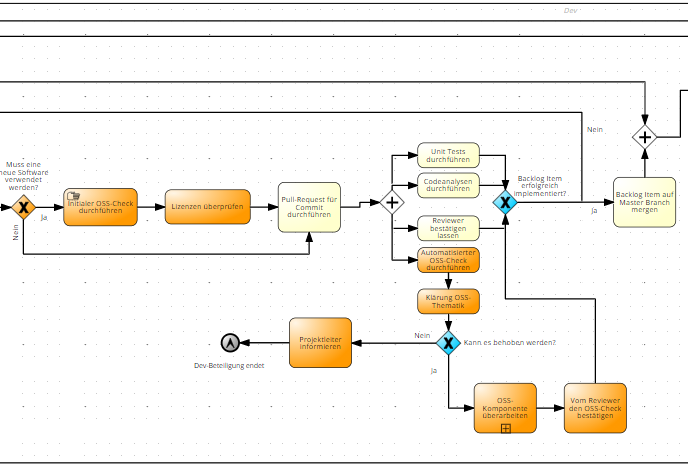
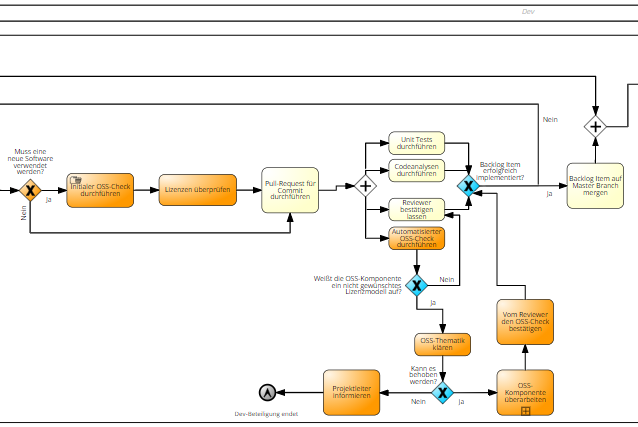
tbd

Changed region(s): [[0.0, 0.1522, 1.0, 1.0], [0.0, 0.0, 1.0, 0.0913]]

diff --git a/SOLL_IntegrationOSSDevOpsProdukt.tex b/SOLL_IntegrationOSSDevOpsProdukt.tex
@@ -1,9 +1,116 @@
-Obwohl die Nutzung von OSS Folgen für das gesamte DevOps-Team hat, wird die Entscheidung über die Nutzung von der Rolle des Entwicklers getroffen, wodurch die Prozessanpassungen  vorrangig im Bereich der Entwicklung vorgenommen werden müssen. 
+Obwohl die Nutzung von OSS Folgen für das gesamte DevOps-Team hat, wird die Entscheidung über die Nutzung von der Rolle des Entwicklers getroffen, wodurch die Prozessanpassungen vorrangig im Bereich der Entwicklung vorgenommen werden müssen. 
 
-Daher wurde für ein besseres Verständnis, ausschließlich die Rolle des Entwicklerteams, mit einem entsprechenden Start und Endpunkt modelliert. 
+Daher wurde für ein besseres Verständnis, ausschließlich die Rolle des Entwicklerteams, mit einem entsprechenden Start und Endpunkt modelliert und die restlichen Rollen nicht weiter behandelt.
 
 \begin{figure}[p]
     \centering
-    \includegraphics[angle=90, scale=0.7]{Bilder/SOLL-Prozess.png}
-    \caption{Einbindung von OSS in den Softwareentwicklungsprozess basierend auf dem HAF-Projekt}
+    \includegraphics[angle=90, scale=0.5]{Bilder/SOLL-Prozess.png}
+    \caption{Einbindung von OSS in den Softwareentwicklungsprozess basierend auf dem HAF-Projekt}s
 \end{figure}
+
+Da zu dem Zeitpunkt der Nutzung von OSS die Projektstruktur bereits besteht und das Product Backlog ebenfalls erstellt wurde, bildet den Anfang des DevOps-Prozesses nun die Anpassung des priorisierten Product Backlogs.
+
+Nachdem das Sprint Planning Meeting durchgeführt worden ist, kann die Iteration gestartet werden. 
+
+\begin{figure}[h]
+    \centering
+    \includegraphics[scale=0.8]{Bilder/SOLL-Prozess_first Part.png}
+    \caption{Erster Teil des Softwareentwicklungsprozess im SOLL-Zustand basierend auf dem HAF-Projekt}
+\end{figure}
+
+Wie auch bei dem IST-Zustand muss sich zunächst die Frage gestellt werden, ob Codeänderungen durchgeführt werden müssen, unabhängig ob es auf Änderungen eines vorhandenen Codes oder auf eine Neuimplentierung bezieht. 
+
+Sollten Codeänderungen vorgenommen werden, wird der Implementierungsvorgang für das Backlog Item gestartet. 
+
+Ab diesem Zeitpunkt setzt die Nutzung von OSS die Prozessänderungen in Gang.
+
+\begin{figure}[h]
+    \centering
+    \includegraphics[scale=0.8]{Bilder/SOLL-Prozess_second Part.png}
+    \caption{Zweiter Teil des Softwareentwicklungsprozess im SOLL-Zustand basierend auf dem HAF-Projekt}
+\end{figure}
+
+Um präventiv maßgebliche Konsequenzen durch die Nutzung von OSS zu vermeiden, sollten sich die betreffenden Entwickler die Frage stellen, ob tatsächliche eine neue Software oder Softwarekomponete in das Projekt eingebunden werden muss. 
+
+Falls dies der Fall ist, muss zunächst ein initaler OSS-Check durchgeführt werden. 
+
+Dieser dient dazu, das Lizenzmodell der verwendeten OSS-Komponete zu überprüfen und diese mit den 'ungefährlichen' Lizenzmodellen zu vergleichen. 
+
+Dies hat zum Vorteil, dass der Entwickler bereits vor einer langen Implementierung eine Aussage darüber treffen kann, ob sich aus Sicht der Lizenzmodelle eine Verwendung eignet oder ob ein Lizenzmodell vorliegt, welches zumindest ein beschränktes Copyleft aufweist. 
+
+Sollte die verwendete OSS-Komponete ein derartiges Lizenzmodell aufweisen, hat der Entwickler ausreichend Zeit, nach eine 'ungefährlichen' Alternative zu suchen.  
+
+Wird die OSS-Kompoente letztlich verwendet, wird ein Pull-Request für ein Commit durchgeführt. 
+
+An diesem Punkt befindet sich der Entwickler ebenfalls, wenn keine neue OSS genutzt wird. 
+
+Anschließend hierzu werden wie im gängigen Prozess, Unit-Tests und Codeanalysen durchgeführt und diese  vom Reviewer bestätigen lassen.
+
+Gleichzeitig zu diesen Schritten muss eine neue Anpassung des Prozesses im Hinblick auf die Verwendung von OSS als ein automatisierten OSS-Check durchgeführt werden.
+
+Während bei einer Verwendung von neuer OSS die Lizenzmodelle zeitnah überprüft werden können, kann es Fälle geben, in denen Versionen einer bereits implementierten OSS-Komponete geändert werden und daraus eine Verschiebung der betreffenden Lizenzmodelle stattfinden kann. 
+
+Dies kann dazu führen, dass OSS-Komponeten ein starkes Copyleft aufweisen, obwohl diese mit einem schwachen oder keinen Copyleft implementiert worden sind. 
+
+Ferner würde bei einer gängigen Entwicklung diese Situation nicht auffallen und bietet daher ein großes Risiko. 
+
+Durch einen automatisierten OSS-Check können die Lizenzmodelle der verwendeten OSS-Komponeten anhand ihrer Versionen dargestellt werden. 
+
+Damit erhalten alle Entwickler einen genauen Überblick über die verwendeten OSS-Komponeten und deren akutellen Lizenzstatus. 
+
+Zu beachten ist dabei, dass der automatisierte OSS-Check nach jedem Commit ausgeführt werden muss, damit die Entwickler genug Zeit haben, nach einer Lösung für eine mögliche Lizenzproblematik zu suchen.
+
+Durch die zeitnahe Übermittlung der notwendigen Informationen wird die Transparenz zwischen den DevOps-Mitgliedern sichergestellt. 
+
+Die Automatisierung des OSS-Checks entspricht sowohl der Kultur als auch den Methoden nach den DevOps-Prinzipien.
+
+Sollte die OSS-Komponete kein schwieriges Copyleft aufweisen, wird dieser Zustand zunächst vom Reviewer bestätigt und kann dann als Backlog Item erfolgreich implementiert und auf das Master Branch gemergt werden. 
+
+Falls dies nicht der Fall ist, muss die OSS-Thematik zunächst geklärt werden.
+
+Sollte die entstandene Problematik nicht behoben werden, so muss der Projektleiter informiert werden und die Dev-Beteiligung endet zunächst an dieser Stelle. 
+
+Kann die OSS-Thematik gelöst werden, muss diese zunächst überarbeitet werden. 
+
+Dies reicht von einem Rückgang auf eine alte Version, wobei an dieser Stelle die gesamte Funktionalität gewährleistet werden muss, bis zur Verwerfung der entsprechenden Kompoente durch den Entwickler. 
+
+Dieser Aufgabenbereich kann mehrere Unteraufgaben aufweisen und die Lösung ist demnach spezifisch auf die Komponete und deren Entwicklung ausgelegt. 
+
+Nach der Überarbeitung erfolgt eine erneute Bestätigung durch einen Reviewer, zum Ziel, die Kompoente erfolgreich auf den Master Branch zu mergen. 
+
+\begin{figure}[h]
+    \centering
+    \includegraphics[scale=0.8]{Bilder/SOLL-Prozess_third Part.png}
+    \caption{Dritter Teil des Softwareentwicklungsprozess im SOLL-Zustand basierend auf dem HAF-Projekt}
+\end{figure}
+
+Sobald das Release auf seine Vollständigkeit und Richtigkeit überprüft worden ist, wird zur erneuten Kontrolle der Lizenzmodelle ein Report erstellt. 
+
+Dieser dient als eine Nachdokumentation, einerseits falls sich unbeabsichtigt Änderungen ergeben haben, die bisher nicht gesehen wurden und andererseits zur Vorlage für den Stakeholder, um den Status der verwendeten OSS-Komponeten transparent zu präsentieren. 
+
+Die Iteration endet mit der Vorstellung der Ergebnisse im Review. 
+
+Basierend auf der Nachdokumentation muss anschließend analysiert werden, ob Auffälligkeiten innerhalb der Lizenzthematik festgestellt wurden.  
+
+Ergeben sich tatsächlich Auffälligkeiten, müssen diese zunächst definiert werden und werden in den Product Backlog übermittelt. 
+
+Müssen keine Veränderungen vorgenommen werden, wird das Release bereitgestellt. 
+
+Genau wie bei dem gängigen Softwareentwicklungsprozess im IST-Zustand, endet dieser Prozess ebenfalls mit einem leeren Product Backlog.  
+
+
+
+
+
+
+
+
+
+
+
+
+
+
+
+
+

diff --git a/UmfangSzenarien.tex b/UmfangSzenarien.tex
@@ -1,0 +1,47 @@
+Um das Themenfeld der Verwendung von OSS in den DevOps-Prozess in einem festen Rahmen erfassen zu können, musste zunächst der Umfang dieser Problemstellung reduziert werden.  
+
+In diesem Rahmen wurde der Umgang mit der Nutzung von OSS, insbesondere im Hinblick auf die Lizenzmodelle auf drei Szenarien beschränkt. 
+
+Diese stellen zunächst drei Ausgangssituationen dar, unter welchen Bedinungen OSS verwendet werden darf und welche Einschränkungen dabei getroffen werden müssen.   
+
+\paragraph{Szenario 1: Verwendung von OSS zur Testzwecken}
+
+Bei dem ersten Szenario beschränkt sich die Nutzung von OSS ausschließlich auf Unterstützung- oder Testzwecke wie bespielsweise Treiber. 
+
+Dementsprechend soll dieses Szenario verdeutlichen, dass die Verwendung von OSS ausschlißlich als Werkzeug fungiert und keine Abhängigkeit zwischen der Funktionalität und der verwendeten OSS-Komponente stattfindet. 
+
+Würde die OSS wegfallen, wäre die Funktionalität des Projekts weiterhin gewährleistet. 
+
+Ferner werden keine Kopien des Original-Quellcodes innerhalb eines Repositorys hochgeladen, sowohl manuell als auch mittels Skript. 
+
+Infolge der ausschließlichen Unterstützungsfunktion erfolgt innerhalb dieses Szenarios keine Auslieferung der Komponete an den Kunden. 
+
+\paragraph{Szenario 2: Verwendung von OSS-Bibliotheken als Referenz}
+
+Im Rahmen des zweiten Szenarios werden OSS-Bibliotheken über API-Aufrufe innerhalb des entwickelnden Quellcodes referenziert und blieben daher unverändert. 
+
+Ferner wird der Quellcode der OSS-Bibliothek während des Builds und Deployments nur vorübergehend heruntergeladen, um die ausführbare Datei zu erstellen. 
+
+Da die Bibliothek ausschließlich als Referenz verwendet wird, werden wie bei Szenario eins keine Kopien des originalen Quellcodes der Bibliothek innerhalb eines Repositorys hochgeladen.
+
+Da viele Systembibliotheken unter ein starkes Lizenzmodell fallen, kann das bestehende Projekt mit der entsprechenden Bibliothek durch die Referenzierung zu einem Programm zusammengeführt werden und fällt unter die Verbindung \textit{statisches Verlinken}. \cite[S. 211]{jorg_it-vertrage_2007}
+
+Es entsteht demnach eine direkte Verbindung zu einer lizensierten OSS. 
+
+Aus diesem Grund sollten innerhalb dieses Szenarios weitgreifend auf OSS-Komponenten mit einem starken Copyleft vermieden werden. 
+
+\paragraph{Szenario 3: Verwendung von OSS als modifizierter Quellcode}
+
+Innerhalb des letzten Szenarios findet eine tatsächliche Integration der OSS innerhalb der Entwicklung des Projekts statt.
+
+In diesem Rahmen wird der Quellcode heruntergeladen, entsprechend den Anforderungen angepasst und letztlich in das Repository hochgeladen. 
+
+Dies kann sowohl auf eine reine Modifikation des Quellcodes oder die Erstellung neuer Dateien basieren.  
+
+Ab diesem Zeitpunkt ist die Berücksichtigung der Lizenzmodelle essentiell, wodurch bestimmte Bedinungen erfüllen werden müssen. 
+
+Um weitgreifende Folgen zu vermeiden, sollten in diesem Szenario auschließlich OSS verwendet werden, die kein Copyleft oder teilweise ein beschränktes Copyleft aufweisen.
+
+Jedes File, welches modifiziert oder neu erstellt wurde, muss zur Kennzeichnung einer Modifikation mit einem Header-Kommentar versehen werden.
+
+%Frage an Daniel: Szenarios grafisch darstellen?????

diff --git a/IST_IntegrationOSSDevOpsProdukt.tex b/IST_IntegrationOSSDevOpsProdukt.tex
@@ -132,11 +132,16 @@ Nachdem das Release auf seine Vollständigkeit und Richitgkeit überprüft worde
 
 Ab diesem Zeitpunkt endet die Iteration. 
 
-Werden weitere Anpassungen benötigt, muss das neue Release bearbeitet und definiert werden, wobei diese in das priorisierte Backlog zurückgehen.
+Werden weitere Anpassungen benötigt, muss das neue Release bearbeitet und definiert werden, wobei diese in das priorisierte Backlog zurückfließen.
 
 Sind keine Änderungen notwendig, wird das Release bereitgestellt. 
 
 Das Projekt endet sobald das product Backlog leer ist.
+
+
+%Frage an Daniel: Soll ich die BPMN-Modellierung kurz erläutern? 
+%Eigentlich finde ich das nicht sinnvoll, weil der Prof. sich top in BPMN auskennt
+%Aber vllt fürs Verständnis???? Wenn nicht im text, dann im Anhang ???
 
 
 

diff --git a/MasterThesis_CA.tex b/MasterThesis_CA.tex
@@ -101,6 +101,7 @@ In diesem Rahmen wurde zunächst der derzeitige IST-Zustand mittels BPMN modelli
 \subsubsection{Betrachtung des IST-Zustandes des Softwareentwicklungsprozesses}
 \input{IST_IntegrationOSSDevOpsProdukt.tex}
 
+\newpage
 \subsubsection{Anpassungen des IST-Zustandes durch die Verwendung von OSS}
 \input{SOLL_IntegrationOSSDevOpsProdukt.tex}
 
